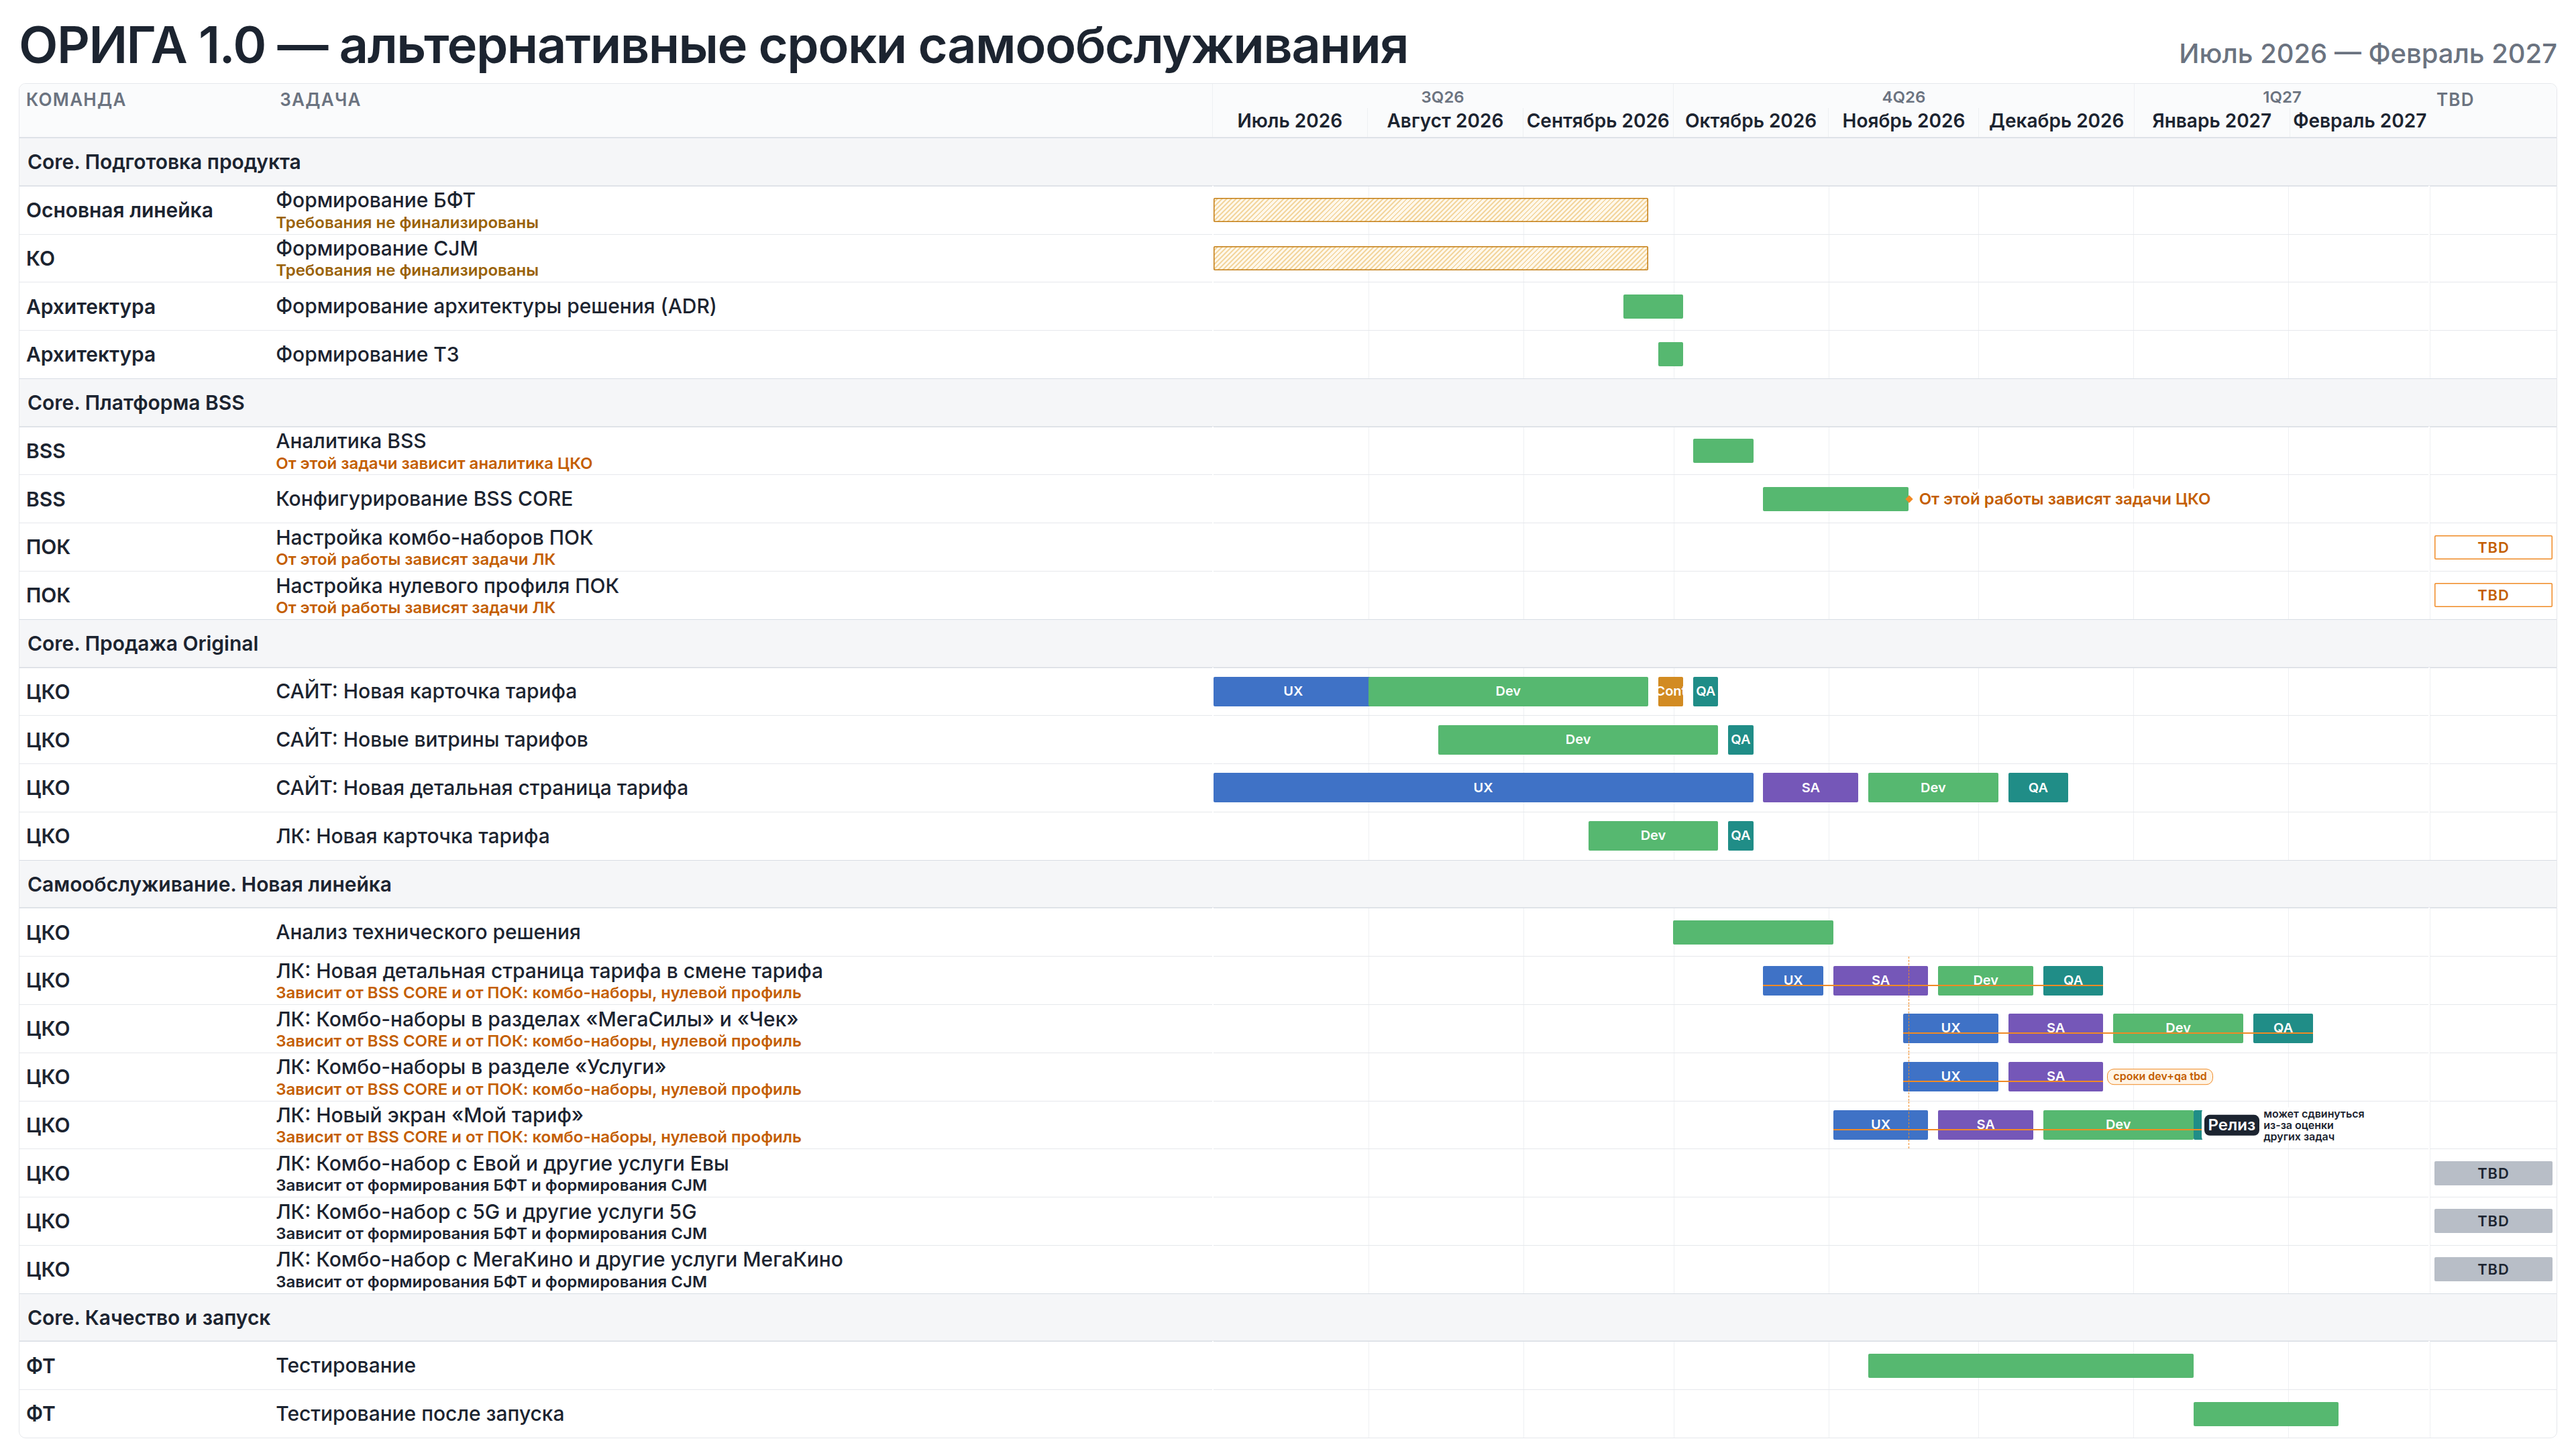
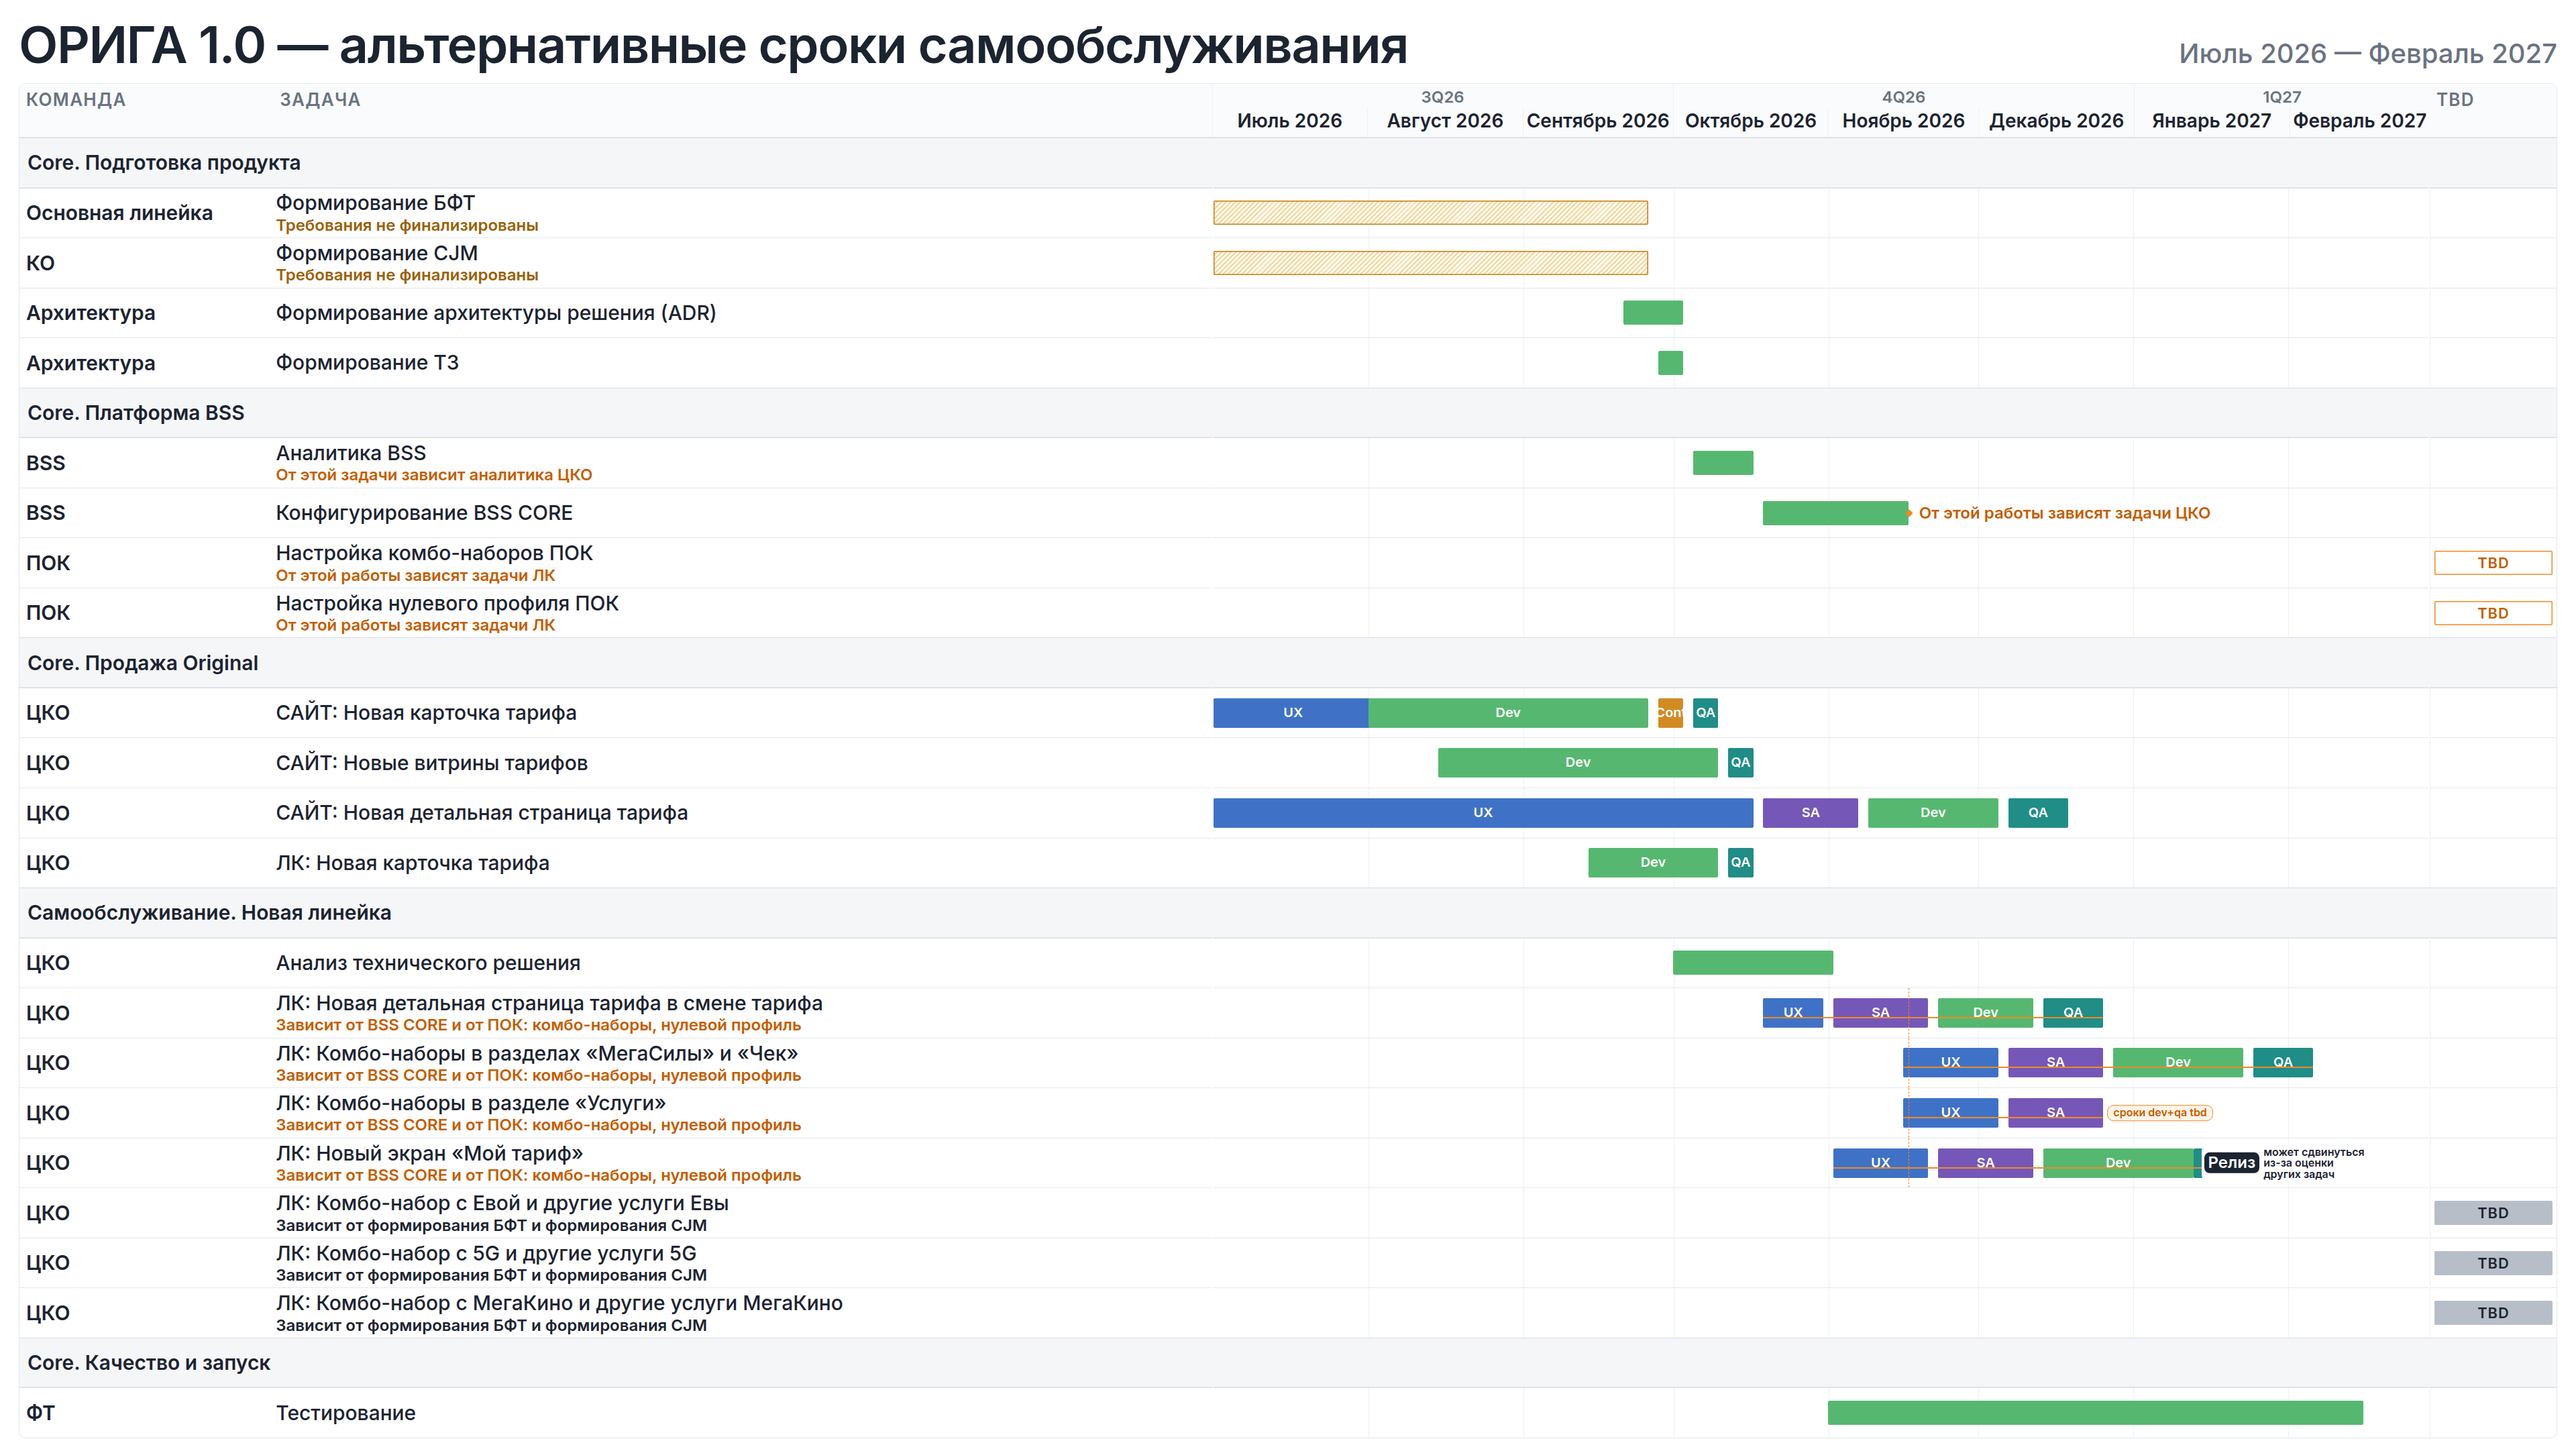
Consolidate alternate roadmap testing

diff --git a/roadmap-selfservice-alt/data.js b/roadmap-selfservice-alt/data.js
@@ -47,4 +47,16 @@
       ],
     },
   );
+
+  const quality = data.blocks.find(
+    (item) => item.title === 'Core. Качество и запуск',
+  );
+  quality.rows = [
+    {
+      team: 'ФТ',
+      task: 'Тестирование',
+      start: '2026-11-01',
+      end: '2027-02-15',
+    },
+  ];
 })();
